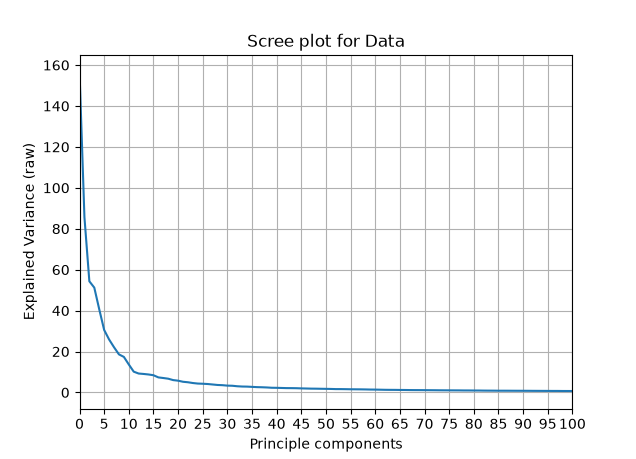
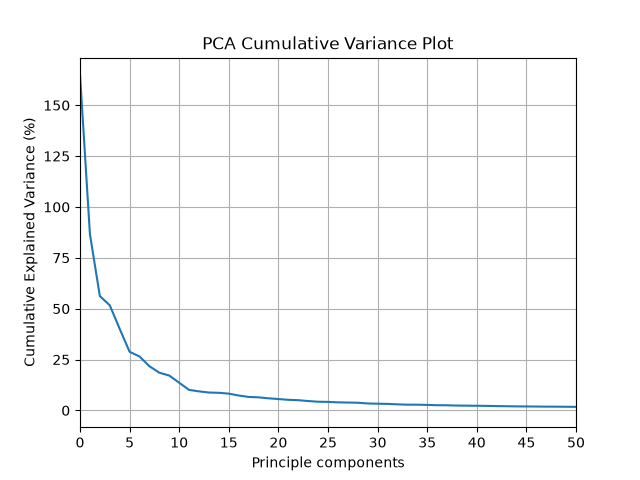
k-fold and pca update

diff --git a/main.py b/main.py
@@ -53,7 +53,7 @@ image_paths, steerings = load_img_steering('track/IMG', data)
 print(f"image path shape: {image_paths.shape}")
 print(f"steerings shape: {steerings.shape}")
 img = mpimg.imread(image_paths[0])
-print(img.shape)
+print(img.shape)    
 print(img.size)
 
 
@@ -104,6 +104,15 @@ def preprocess(image):
     image = image / 255 # every pixel value in array between 0 and 1. 255 since they are 8 bit
 
     return image
+k = [10, 20, 50, 75, 100, 125, 150, 200, 250, 300]
+def test_ann(ann, X_train, X_test, y_train, y_test, k):
+    accuries = []
+    for i in k:
+        ann.fit(X_train[:, :i], y_train)
+        acc = ann.score(X_test[:, :i], y_test)
+        accuries.append(acc)
+        print(f"accuracy for k={i}: {acc*100}%")
+        return accuries
 
 preprocessed_img = preprocess(img) # img shape now 66x200x3
 X = np.zeros((image_paths.shape[0], preprocessed_img.size), dtype=np.float32) # .size tells how many numbers are in an array in total ( 66 * 200 * 3 )
@@ -117,19 +126,6 @@ for row in range(X.shape[0]):
         X[row][column] = img[column]
 # X is now a numpy array of shape (4720x39600O). 4720 = # of images (rows) 39600 = # of dimensions each image has
 
-
-ann = MLPRegressor(solver='sgd', alpha=1e-5, hidden_layer_sizes=(16), max_iter=400, random_state=33)
-pca = PCA(n_components=None)
-pca = pca.fit(X)
-plt.figure()
-plt.plot(pca.explained_variance_)
-plt.xlim(0, 100)
-plt.xticks(np.arange(0, 101, 5))
-plt.grid(True)
-plt.ylabel("Explained Variance (raw)")
-plt.xlabel("Principle components")
-plt.title("Scree plot for Data")
-plt.show()
 def batch_generator(image_paths, steerings, batchSize, isTraining):
 
     while True:
@@ -180,21 +176,42 @@ def nvidia_model():
 
     return model
 
-# kfold = KFold(n_splits=5, shuffle=True)
-# for train_idx, test_idx in kfold.split(image_paths):
-#     X_train, X_test = image_paths[train_idx], image_paths[test_idx]
-#     y_train, y_test = steerings[train_idx], steerings[test_idx]
-#     model = nvidia_model()
-#     model.compile(optimizer='adam', loss='mse')
-#     results = model.fit(batch_generator(X_train, y_train, batch_size, 1),
-#             steps_per_epoch=len(X_train) // batch_size,
-#             epochs=10,
-#             validation_data=batch_generator(X_test, y_test, batch_size, False),
-#             validation_steps=len(X_test) // batch_size,
-#             verbose = 1,
-#             )
+kfold = KFold(n_splits=5, shuffle=True)
+losses = []
+all_accs = []
+plt.figure()
+for train_idx, test_idx in kfold.split(image_paths):
+    X_train, X_test = image_paths[train_idx], image_paths[test_idx]
+    Xp_train, Xp_test = X[train_idx], X[test_idx]
+    y_train, y_test = steerings[train_idx], steerings[test_idx]
+    model = nvidia_model()
+    model.compile(optimizer='adam', loss='mse')
+    results = model.fit(batch_generator(X_train, y_train, batch_size, 1),
+            steps_per_epoch=len(X_train) // batch_size,
+            epochs=10,
+            validation_data=batch_generator(X_test, y_test, batch_size, False),
+            validation_steps=len(X_test) // batch_size,
+            verbose = 1,
+            )
+    losses.append(results.history['val_loss'][-1]) # each k-fold does 10 epochs so take the last (best) result of val_loss
+    pca = PCA(n_components=300)
+    pca = pca.fit(Xp_train)
+    Xp_train = pca.transform(Xp_train)
+    Xp_test = pca.transform(Xp_test)
+    
+    
+    ann = MLPRegressor(solver='sgd', alpha=1e-5, hidden_layer_sizes=(16), max_iter=400, random_state=33)
+    accs = test_ann(ann, Xp_train, Xp_test, y_train, y_test, k)
+    all_accs.append(accs)
+    plt.plot(k, accs)
 
-# print(results.history)
+plt.grid(True)
+plt.ylabel("Accuracy")
+plt.xlabel("Principle components")
+plt.title("Accuracy vs. Principle Components")
+plt.show()
+
+print(results.history)
     
 
 # model.save('model.keras')

diff --git a/README.md b/README.md
@@ -68,7 +68,11 @@ Based on NVIDIA's [End to End Learning for Self-Driving Cars](https://arxiv.org/
 Initialized model with _holdout_ method for 
 
 1. _Principle Component Analysis:_ Original dimensions of images before preprocessing steps was 153,600. Preprocessing reduces that down to 39,600 by trimming unecessary parts of image. Performed principle component analysis using the sklearn PCA object. Fit the PCA and plotted Scree Plot ( explained variances )
+
+2. 
+
 <img src="images/scree_plot.png" width="500">
+<img src="images/cumulative_variance.png" width="500">
 
 <!-- Add the loss plot here, e.g.:
 ![Training and validation loss](images/loss.png)
